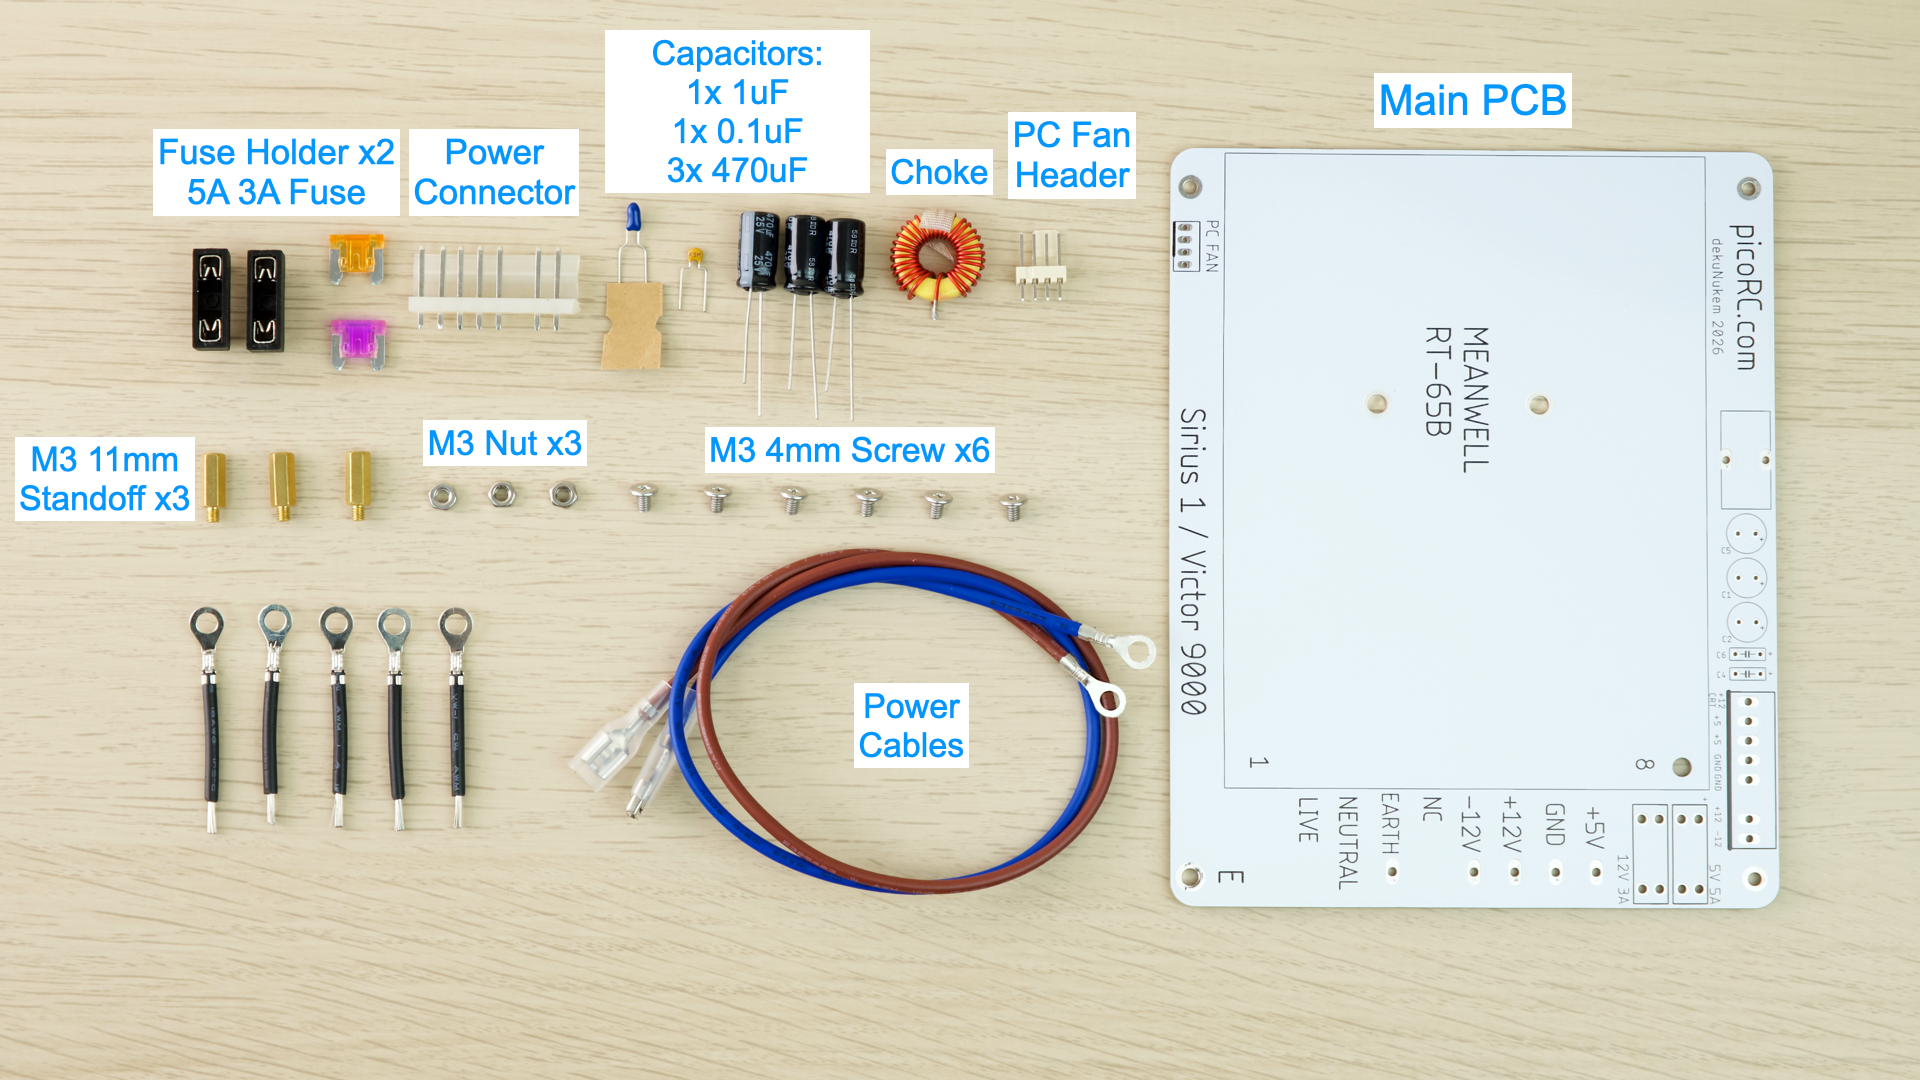
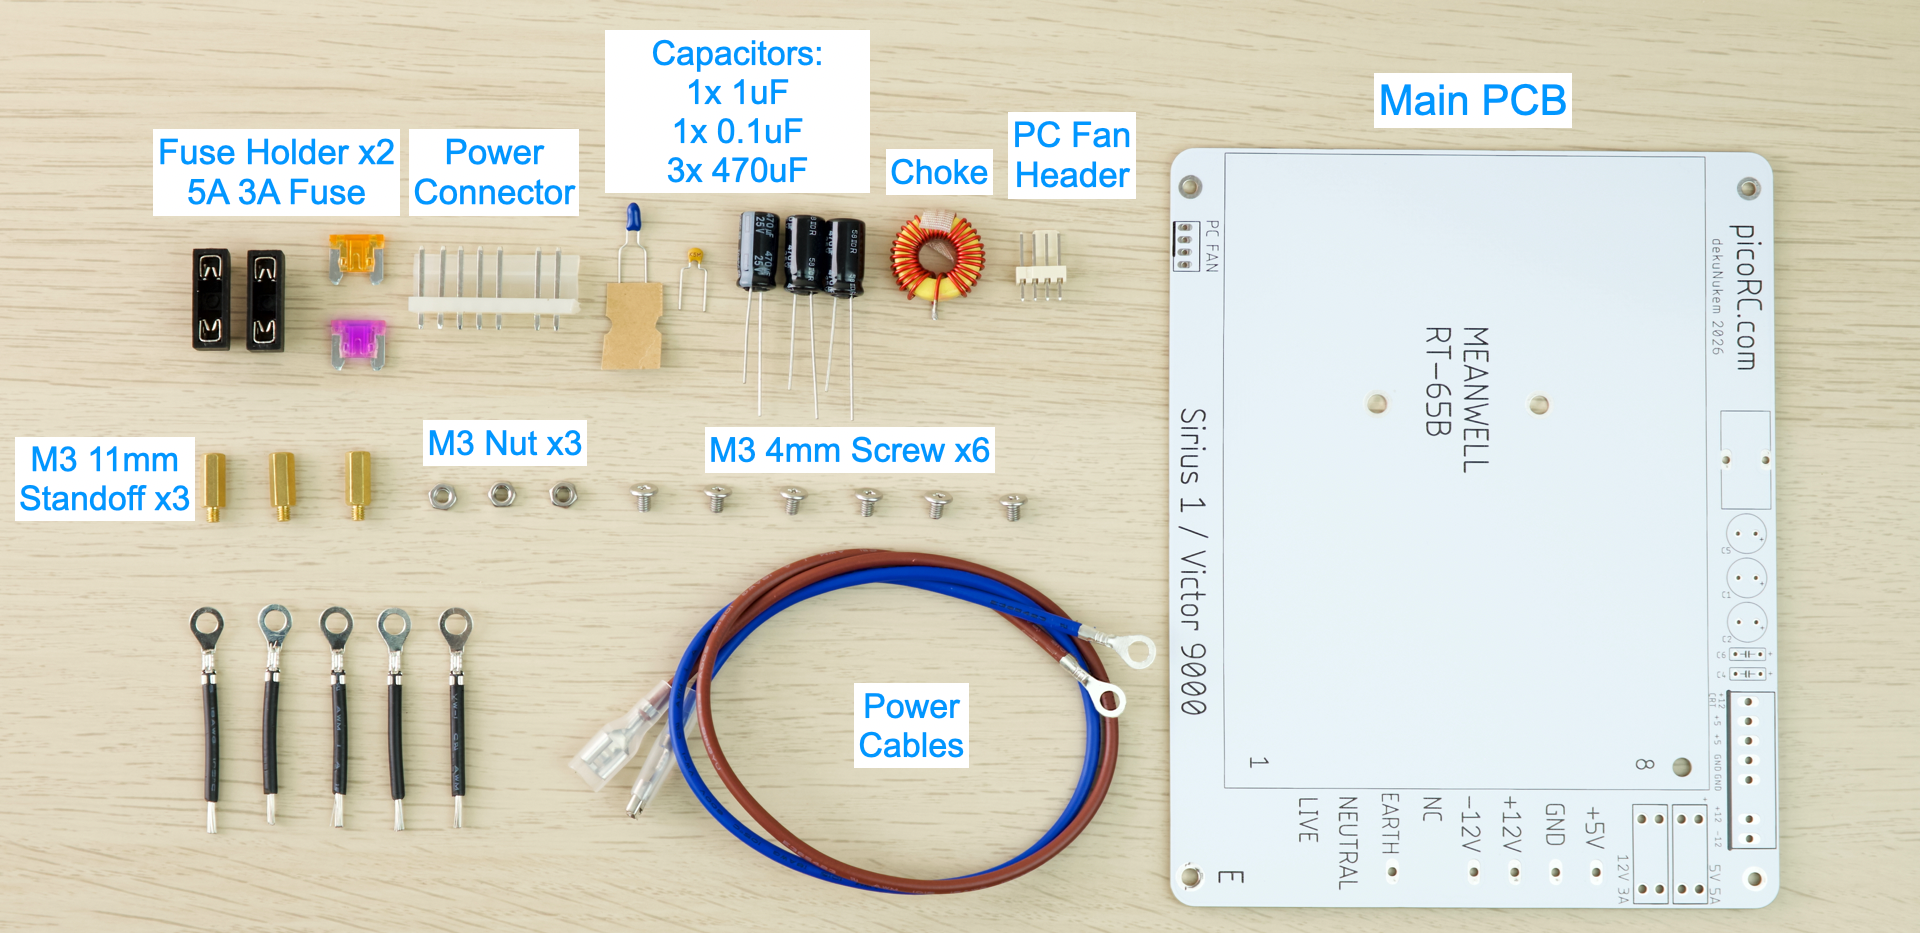
writing doc

diff --git a/sirius1.md b/sirius1.md
@@ -183,7 +183,7 @@ If this is your first time:
 * Flip over
 * Install **M3 Nuts** on bare holes
 * We're done with this half of the case!
-	* Feel free to put it away for now
+	* Put it away for now
 
 ![Alt text](photos/sirius1/bareback.png)
 
@@ -204,7 +204,7 @@ If this is your first time:
 * Next up: Power Connection
 	* ⚠ **Involves mains voltage!**
 	* Ensure everything is unplugged
-	* Pay attention to the steps!
+	* Pay attention to the instructions!
 
 * Look at the connector that plugs into the old PSU
 	* It should have **two wires**.
@@ -236,7 +236,7 @@ If this is your first time:
 
 * On the home stretch now!
 * Plug the output harness into the PCB
-	* Match the **missing pins**
+	* Match the **missing pin**
 	* **Check BOTH ends** to ensure it's not off-by-one.
 * Insert fan cable through the grommet
 	* Plug into fan header
@@ -262,29 +262,26 @@ Good signs include:
 * Fan spins
 * Power light is on
 
-If so, congrats! Just a few final checks left!
+If so, congrats!
 
 ![Alt text](photos/sirius1/run.jpeg)
 
-* Before reinstalling, double check voltage. Use a multimeter.
-	* Black probe on metal case (Use a screw to jam it in)
+* Before reinstalling, double check voltage
+	* Use a multimeter
+	* Black probe on metal case (Use a screw to hold in place)
 	* Touch red probe on each metal contact 
 	* Make sure voltage rail matches
 		* ±5% is fine
 		* NC = Not connected, no wires.
-	* If values are completely wrong, make sure you didn't plug in the harness backwards or off-by-one.
+	* If values are completely wrong, make sure you didn't plug in the harness **backwards** or **off-by-one**.
 
 ![Alt text](photos/sirius1/volt.png)
 
 ## 💥 Exploding Caps Alert
 
-At this stage, you can *theoretically* button everything up and turn it on.
-
-However, beware that if you do, things might get slightly explody.
-
 There are a few **Tantalum Capacitors** on the **floppy controller PCB**.
 
-As they age, they often **fail short** and either explode, blow a fuse, or trip the PSU protection circuit.
+As they age, they often **fail short** and **explode** or **trip the protection** circuit.
 
 ![Alt text](photos/sirius1/caps.png)
 
@@ -322,13 +319,11 @@ Anyway, now you're aware, we can continue putting it back together.
 * If a cap explodes, cut it off.
 * If fuses blows or PSU goes into protection, check for shorted caps on 12V rail again.
 
-Apart from exploding caps, they seems to be very reliable!
+Hopefully it works!
 
-I have 3 and they all worked straightaway.
+While you're in there, might worth give the floppy drive a clean and blow out the dust.
 
-Anyway, while you're in there, might worth give the floppy drive a clean and blow out the dust.
-
-Enjoy!
+Reassemble fully and enjoy!
 
 ![Alt text](photos/sirius1/money.jpeg)
 
